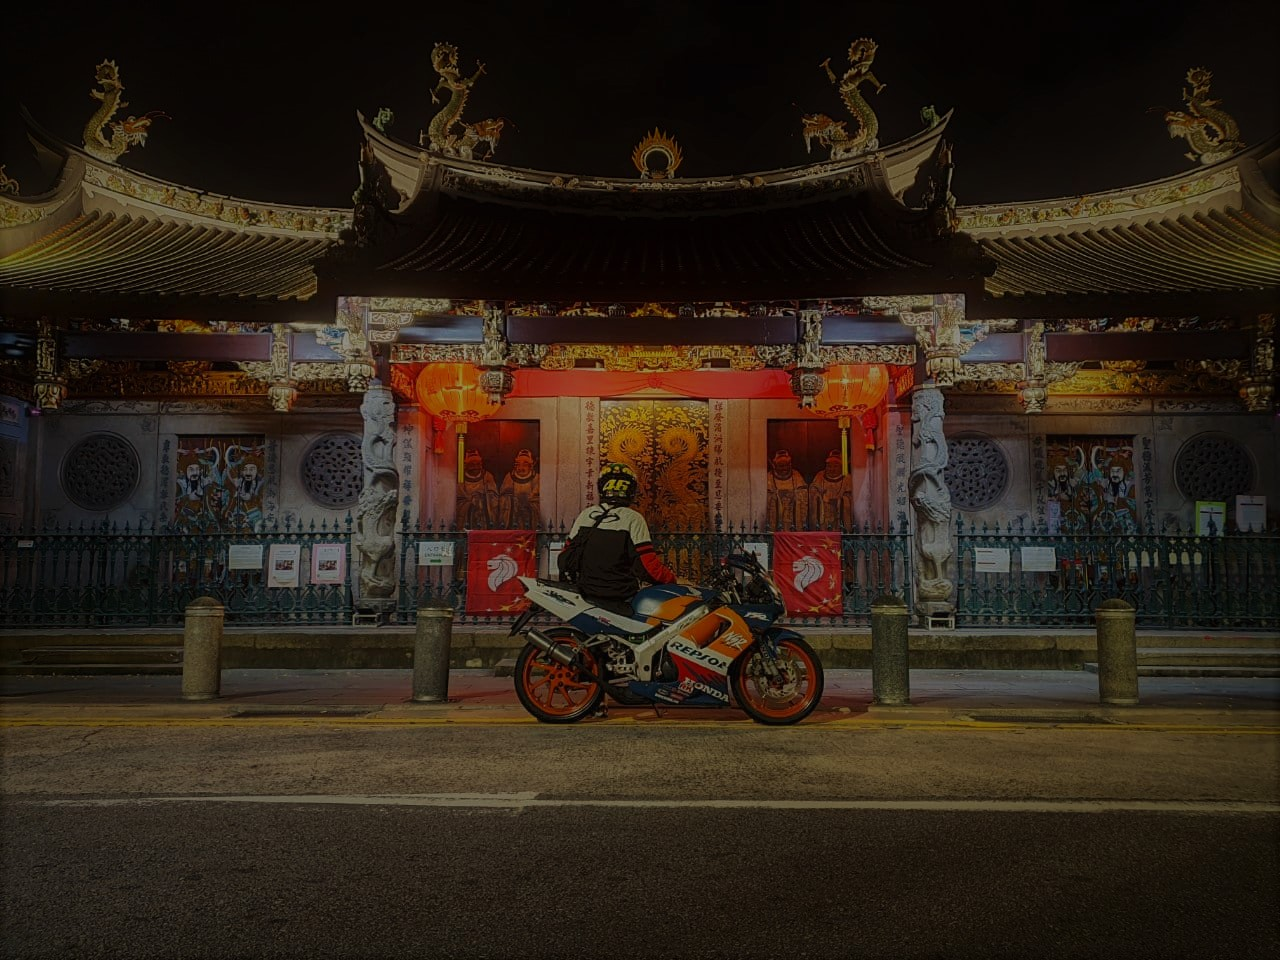
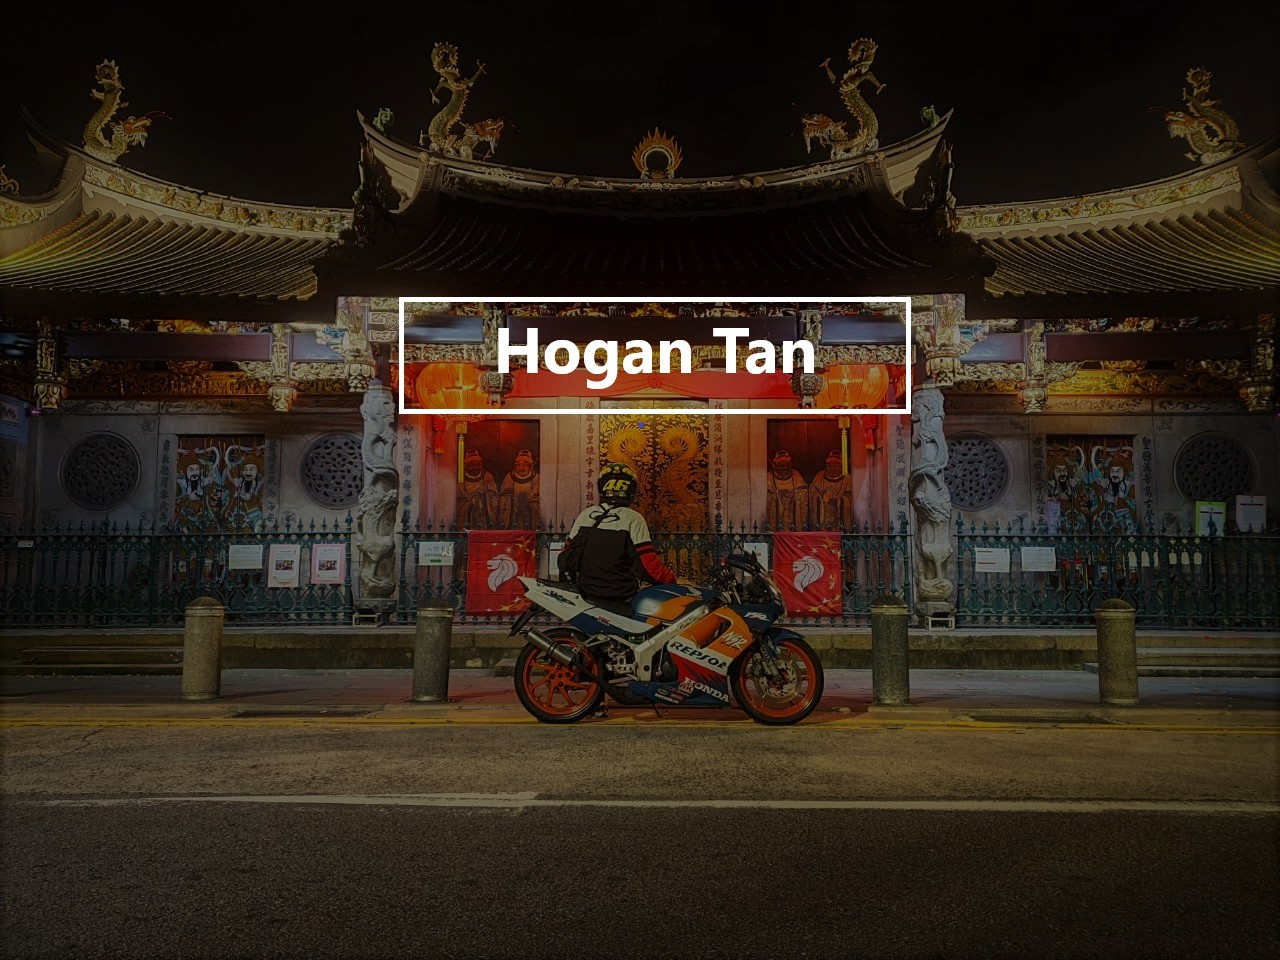
update

Changed region(s): [[0.3125, 0.3125, 0.7188, 0.4375]]

diff --git a/stylesheet.css b/stylesheet.css
@@ -17,7 +17,7 @@ nav ul {
     margin-right: 80px;
     padding: 0;
     list-style: none;
-    text-align: right;
+    text-align: center;
 }
 
 nav li {
@@ -41,57 +41,15 @@ nav a:hover {
     border-radius: 5px;
 }
 
-@media screen and (max-width: 930px) {
+@media screen and (max-width: 1020px) {
     .navbar {
         height: 120px;
     }
 }
 
-.home {
-    margin: 0;
-    height: 1000px;
-    background-image: url("resources/home2.jpg");
-    background-repeat: no-repeat;
-    background-position: center;
-    background-size: 100%;
-    text-align: center;
-}
-
-.filler {
-    height: 300px;
-}
-
-.hometext {
-    display: inline-block;
-    font-family: 'Trebuchet MS', 'Lucida Sans Unicode', 'Lucida Grande', 'Lucida Sans', Arial, sans-serif;
-    font-weight: 500;
-    text-align: center;
-    font-size: 70px;
-    width: 35%;
-    padding: 2%;
-    color: #F1FAEE;
-    border-width: 5px;
-    border-style: solid;
-    border-color: #F1FAEE;
-}
-
-@media screen and (max-width: 930px) {
-    .hometext {
-        font-size: 35px;
-    }
-
-    .filler {
-        height: 370px;
-    }
-}
-
-@media screen and (max-width: 570px) {
-    .hometext {
-        font-size: 20px;
-    }
-
-    .filler {
-        height: 420px;
+@media screen and (max-width: 560px) {
+    .navbar {
+        height: 140px;
     }
 }
 
@@ -161,7 +119,7 @@ nav a:hover {
     margin: 0;
     padding: 0;
     list-style: none;
-    text-align: justify;
+    text-align: center;
 }
 
 .portfolioul li {
@@ -169,8 +127,15 @@ nav a:hover {
 }
 
 .portfolioimg {
-    height: 220px;
-    width: 280px;
+    height: 250px;
+    width: 380px;
+}
+
+@media screen and (max-width: 1020px) {
+    .portfolioimg {
+        height: 200px;
+        width: 280px;
+    }
 }
 
 .portfoliolist {

diff --git a/index.html b/index.html
@@ -21,8 +21,7 @@
 <body>
     
     <div class="home" id="home">
-        <div class="filler"></div>
-        <div class="hometext">Hogan Tan</div>
+        <img src="resources/home2.jpg" alt="home" style="width:100%; max-height: 1000px;">
     </div>
 
     <div class="about">
